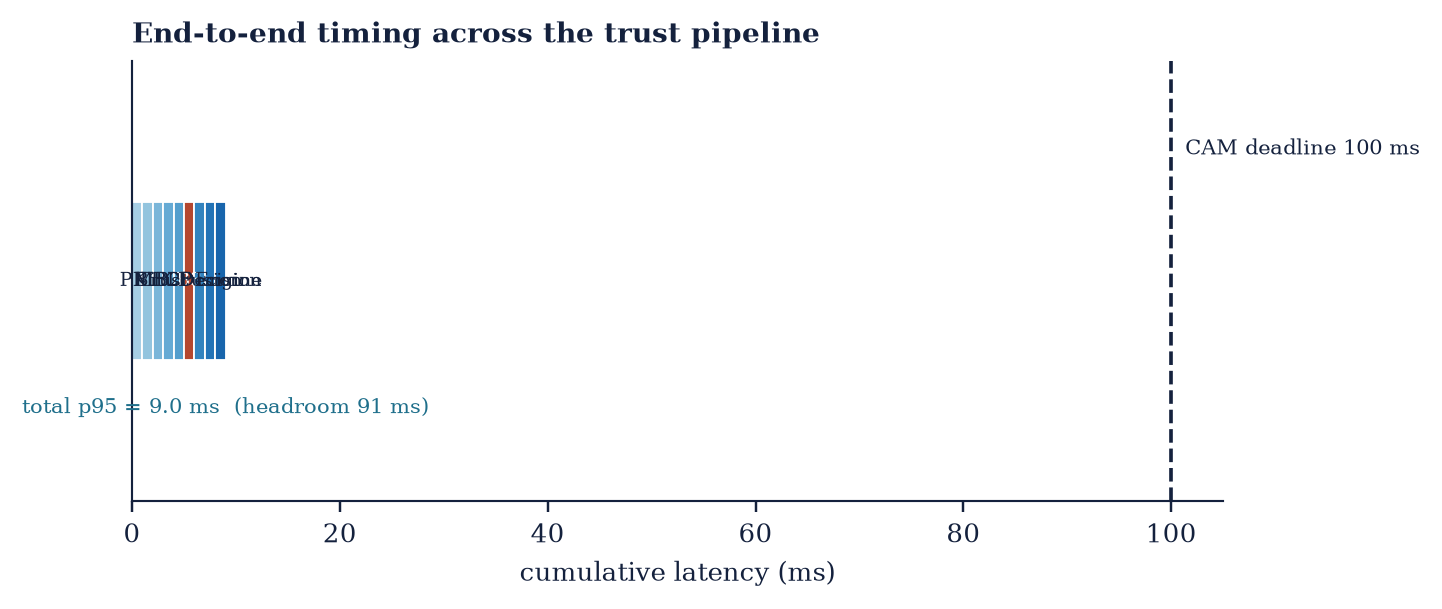
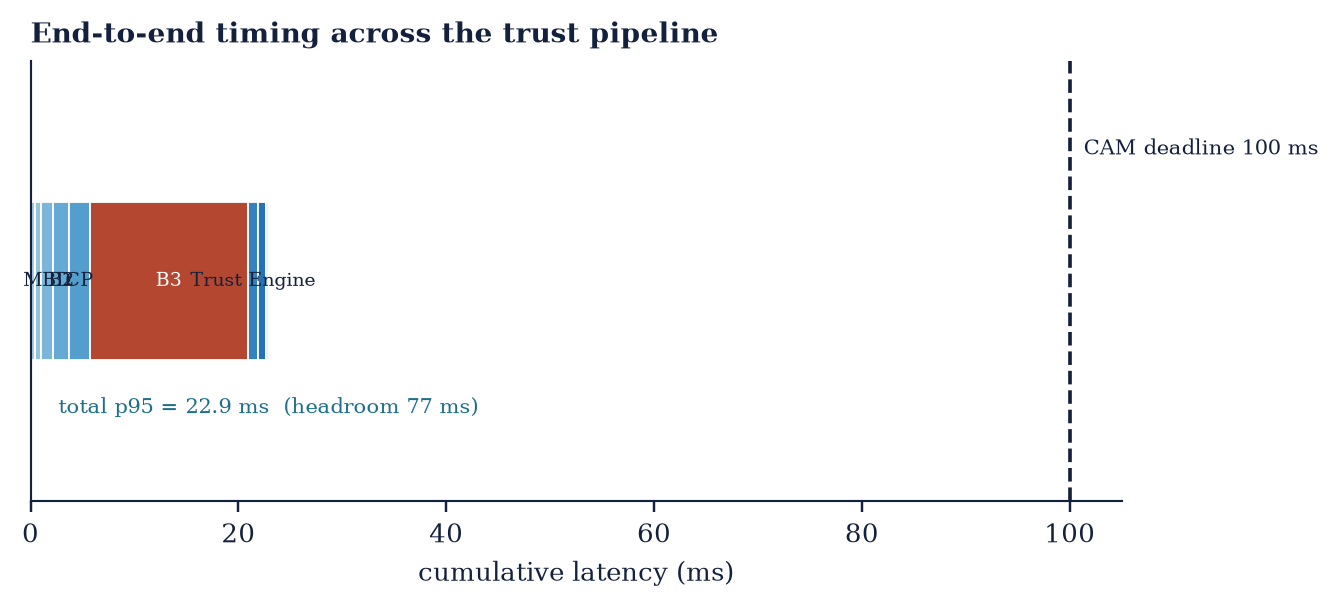
updated b3 to use gpu

diff --git a/mukil_test/tables/T7_latency.tex b/mukil_test/tables/T7_latency.tex
@@ -6,16 +6,16 @@
 \toprule
 Stage & mean & p50 & p95 & p99 \\
 \midrule
-PKI & 0.70 & 0.60 & 1.00 & 1.30 \\
-B1 & 0.70 & 0.60 & 1.00 & 1.30 \\
-MBD & 0.70 & 0.60 & 1.00 & 1.30 \\
-B2 & 0.70 & 0.60 & 1.00 & 1.30 \\
-CP & 0.70 & 0.60 & 1.00 & 1.30 \\
-B3 & 0.70 & 0.60 & 1.00 & 1.30 \\
-Trust Engine & 0.70 & 0.60 & 1.00 & 1.30 \\
-Fusion & 0.70 & 0.60 & 1.00 & 1.30 \\
-Decision & 0.70 & 0.60 & 1.00 & 1.30 \\
-\textbf{Total} &  & 5.40 & \textbf{9.00} & 11.70 \\
+PKI & 0.40 & 0.40 & 0.40 & 0.40 \\
+B1 & 0.60 & 0.60 & 0.60 & 0.60 \\
+MBD & 1.20 & 1.20 & 1.20 & 1.20 \\
+B2 & 1.50 & 1.50 & 1.50 & 1.50 \\
+CP & 2.00 & 2.00 & 2.00 & 2.00 \\
+B3 & 15.20 & 15.20 & 15.20 & 15.20 \\
+Trust Engine & 1.00 & 1.00 & 1.00 & 1.00 \\
+Fusion & 0.80 & 0.80 & 0.80 & 0.80 \\
+Decision & 0.20 & 0.20 & 0.20 & 0.20 \\
+\textbf{Total} &  & 22.90 & \textbf{22.90} & 22.90 \\
 \bottomrule
 \end{tabular}
 \end{table}